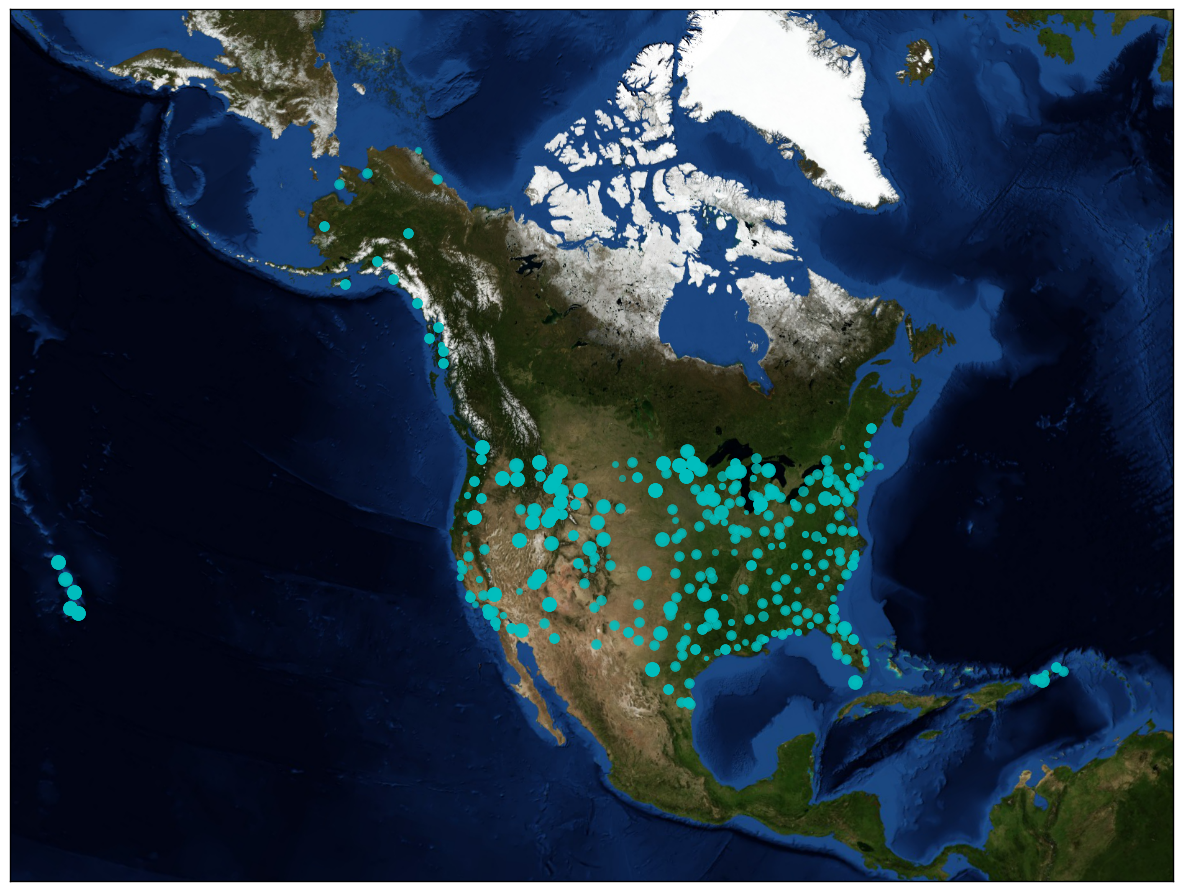
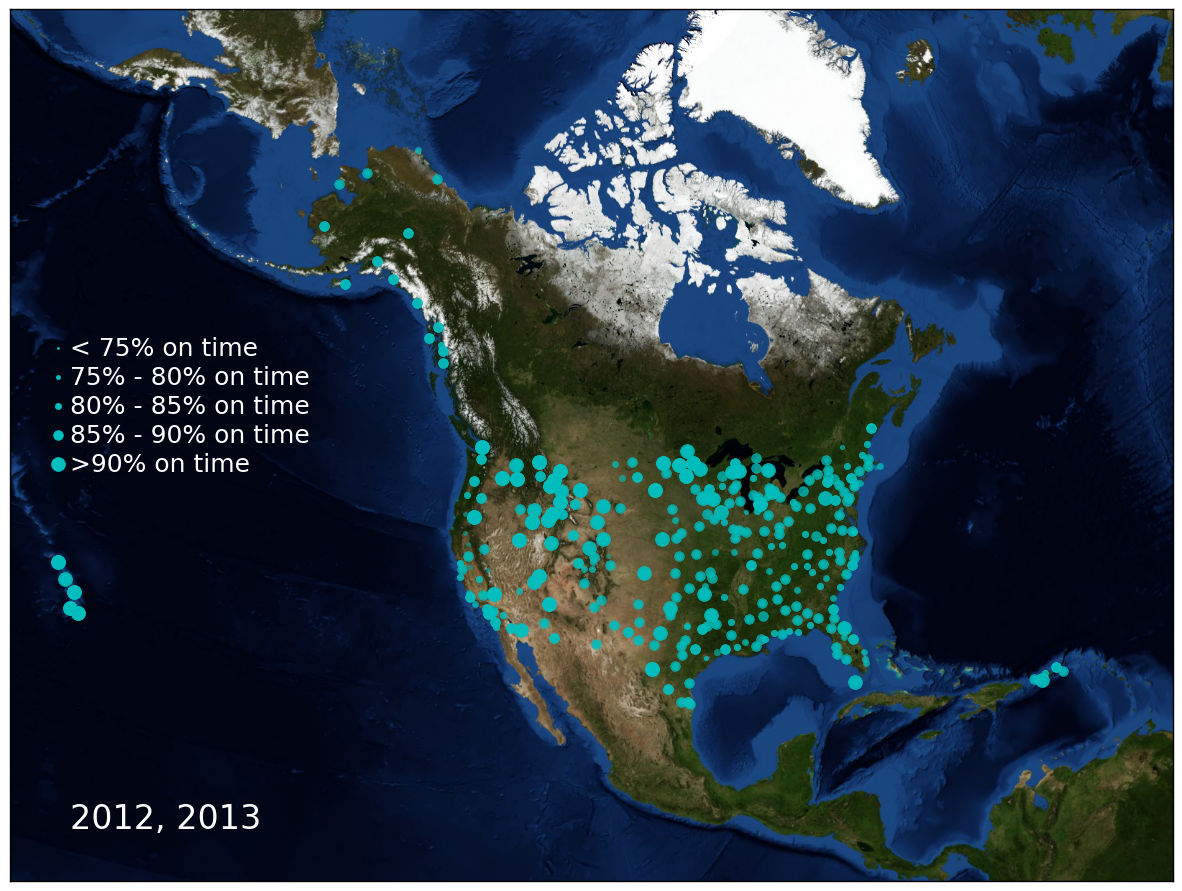
add readme

Changed region(s): [[0.0305, 0.3636, 0.2741, 0.5455], [0.0609, 0.8788, 0.2132, 0.9394]]

diff --git a/src/airline_analysis.py b/src/airline_analysis.py
@@ -105,6 +105,7 @@ def plot_ontime_map(m, coord_file, query_output, image_name):
     plt.text(xtext, y_start - 900000, '85% - 90% on time', color=[1, 1, 1], va='center', fontsize=18)
     plt.text(xtext, y_start - 1200000, '>90% on time', color=[1, 1, 1], va='center', fontsize=18)
 
+    plt.text(xtext, 550000, image_name[11:len(image_name) - 5], color=[1, 1, 1], fontsize=24)
     # load the city coordinates
     coord_dict = {}
     with open(coord_file) as f:
@@ -268,7 +269,7 @@ if __name__ == '__main__':
     years = c.fetchall()
     m = load_map('base_map.pkl')
 
-    plotyears = False
+    plotyears = True
     if plotyears:
         year_ranges = ['(2006, 2007, 2008)', '(2009, 2010, 2011)', '(2012, 2013)', '(2014, 2015)']
         for year in year_ranges:
@@ -294,11 +295,6 @@ if __name__ == '__main__':
     Where a.Year = 2015 ORDER BY pct_improve''')
 
     plot_pctchange(m, 'city_coordinates.txt', c.fetchall(), '../images/pct_change06-15.png')
-    plt.show()
-
-    c.execute("SELECT COUNT(*) FROM ontime WHERE Year = 2010")
-    printc.fetchall()
-    asdasd
 
     '''4. What happened to Sea-Tac Airport on-time performance during the 2006-2015 time period?
     How did that compare to the average of all airports?'''

diff --git a/README.md b/README.md
@@ -1,0 +1,21 @@
+## Analysis of airline on-time performance data: 2006-2015
+
+On-time performance data made available by the Bureau of Transportation for flights in the United States. Data have from 2006 - 2015 are stored in an Amazon Redshift database and accessed using the psycopg2 postgreSQL client in Python.
+
+The areas which perform best in on-time departures are shown for various timeframes in the figures below.
+<center><img src="images/(2006, 2007, 2008).png" height="200">
+<img src="images/(2009, 2010, 2011).png" height="200"></center>
+
+<center><img src="images/(2012, 2013).png" height="200">
+<img src="images/(2014, 2015).png" height="200"></center>
+
+<br>
+This project used data stored in an Amazon Redshift database and S3 bucket. The data were accessed with postgreSQL using python's psycopg2 client. Pandas and Matplotlib were implemented for further data manipulation and visualization.
+
+<center> <img src="images/python.png" height="45">
+<img src="images/aws.png" height="45">
+<img src="images/pandas_logo.png" height="45"></center>
+<br>
+<center><img src="images/matplotlib.png" height="45">
+<img src="images/postgresql.png" height="45">
+<img src="images/psycopg.png" height="45"></center>
